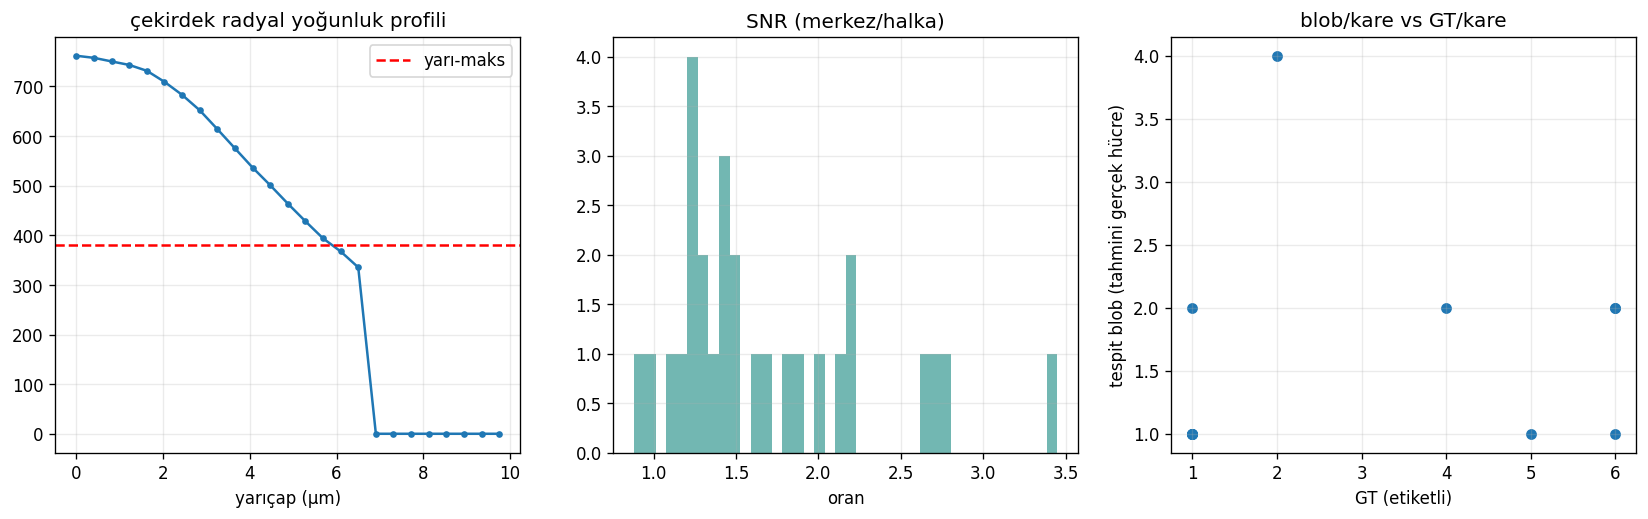
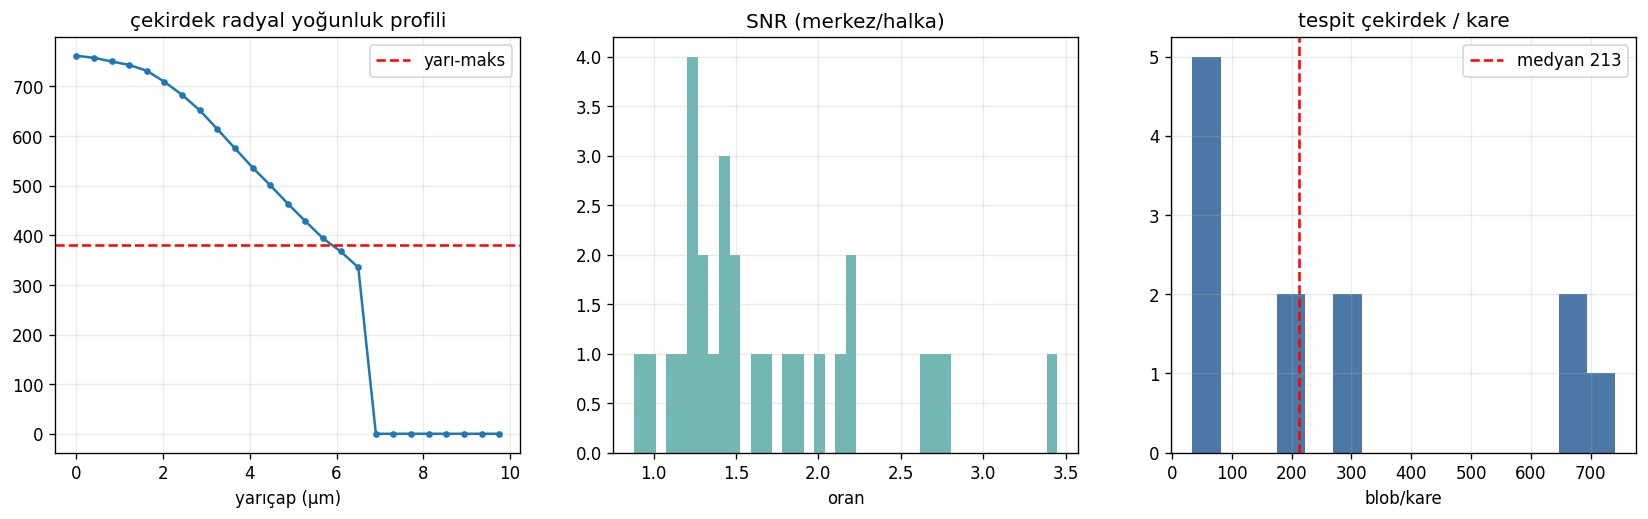
Detayli EDA: duzeltilmis T_true bulgusu
Blob sayaci calisti: ~213 cekirdek/kare (medyan). Ornek basina T_true ~21k;
GT etiketli oran ~%2-3. Fazla-tahmin cezasi icin T_pred~200/kare hedefi.
D09 figuru guncellendi.

diff --git a/docs/EDA_BULGULARI.md b/docs/EDA_BULGULARI.md
@@ -94,9 +94,12 @@ Figürler: `outputs/figures/D02`–`D10`. Analizler artık **tek örnek değil, 
 
 ## D. Detection ([D09](../outputs/figures/D09_detection.png))
 - Çekirdek ~**10 µm çap** (yarı-maks yarıçap ~5 µm), her Z derinliğinde GT var ([D10](../outputs/figures/D10_zbehavior.png)).
-- Global foreground sinyali güçlü ([07b], ~8×) **ama yerel komşu-kontrastı düşük (~1.5×)** — çekirdekler paketli/temas halinde.
+- Global foreground sinyali güçlü ([07b], ~8×) **ama yerel komşu-kontrastı düşük (~1.5× SNR)** — çekirdekler paketli/temas halinde.
   → **Zor kısım instance ayrımı**, foreground değil. Tam da **Ultrack'in çoklu-hipotez segmentasyonunun** çözdüğü problem.
-- ⚠ **Notebook'taki blob sayacı bozuk** (Otsu eşiği çok yüksek → 1–4 blob; gerçekte yüzlerce olmalı). **T_true tahmini bu haliyle güvenilmez** — düzgün detector (LoG/DoG / Ultrack) ile yeniden hesaplanmalı.
+- **T_true tahmini (düzeltilmiş sayaç):** ~**213 çekirdek/kare** (medyan; örnekler arası ~50–730 geniş dağılım).
+  - Örnek başına toplam gerçek hücre ≈ **~21.000** (213 × 100 kare).
+  - **GT etiketli oran ~%2–3** (kare başına ~5–6 etiketli / ~213 gerçek). Yani takip edilecek gerçek hücre sayısı çok yüksek, GT bunun küçük bir örneklemi.
+  - **Fazla-tahmin cezası:** `T_pred ≈ 200/kare` hedefle; binlerce gürültü-tespiti cezalandırılır.
 
 ## E. Bölünme ([D07](../outputs/figures/D07_division.png))
 - ~120 bölünme; zamanda yayvan. **ebeveyn-kız ~6 µm**, kız-kız ~11 µm.
@@ -112,5 +115,5 @@ Figürler: `outputs/figures/D02`–`D10`. Analizler artık **tek örnek değil, 
 1. **Ölçek:** anizotropik `(1.625, 0.40625, 0.40625)` ver (mesafeler µm).
 2. **Detection:** foreground eşiği düşük (tissue parlak) **ama instance için contour/çoklu-hipotez** kullan (asıl zorluk ayrım).
 3. **Linking:** `max_distance ≈ 8 µm`; **gap-closing kapalı** (boşluk yok); **appearance/disappearance açık**; **division açık** (ebeveyn-kız ~6 µm).
-4. **Fazla-tahmin cezası:** `T_pred`'i gerçek hücre sayısına yakın tut — önce **düzgün blob sayımıyla T_true** tahmin et (mevcut sayaç düzeltilmeli).
+4. **Fazla-tahmin cezası:** `T_pred ≈ 200 çekirdek/kare` hedefle (T_true ~213/kare). Gürültü-tespitlerini eşikle; binlerce yanlış node cezalandırılır.
 5. **Öncelik:** edge %90 → linking; division %10 sonra.
